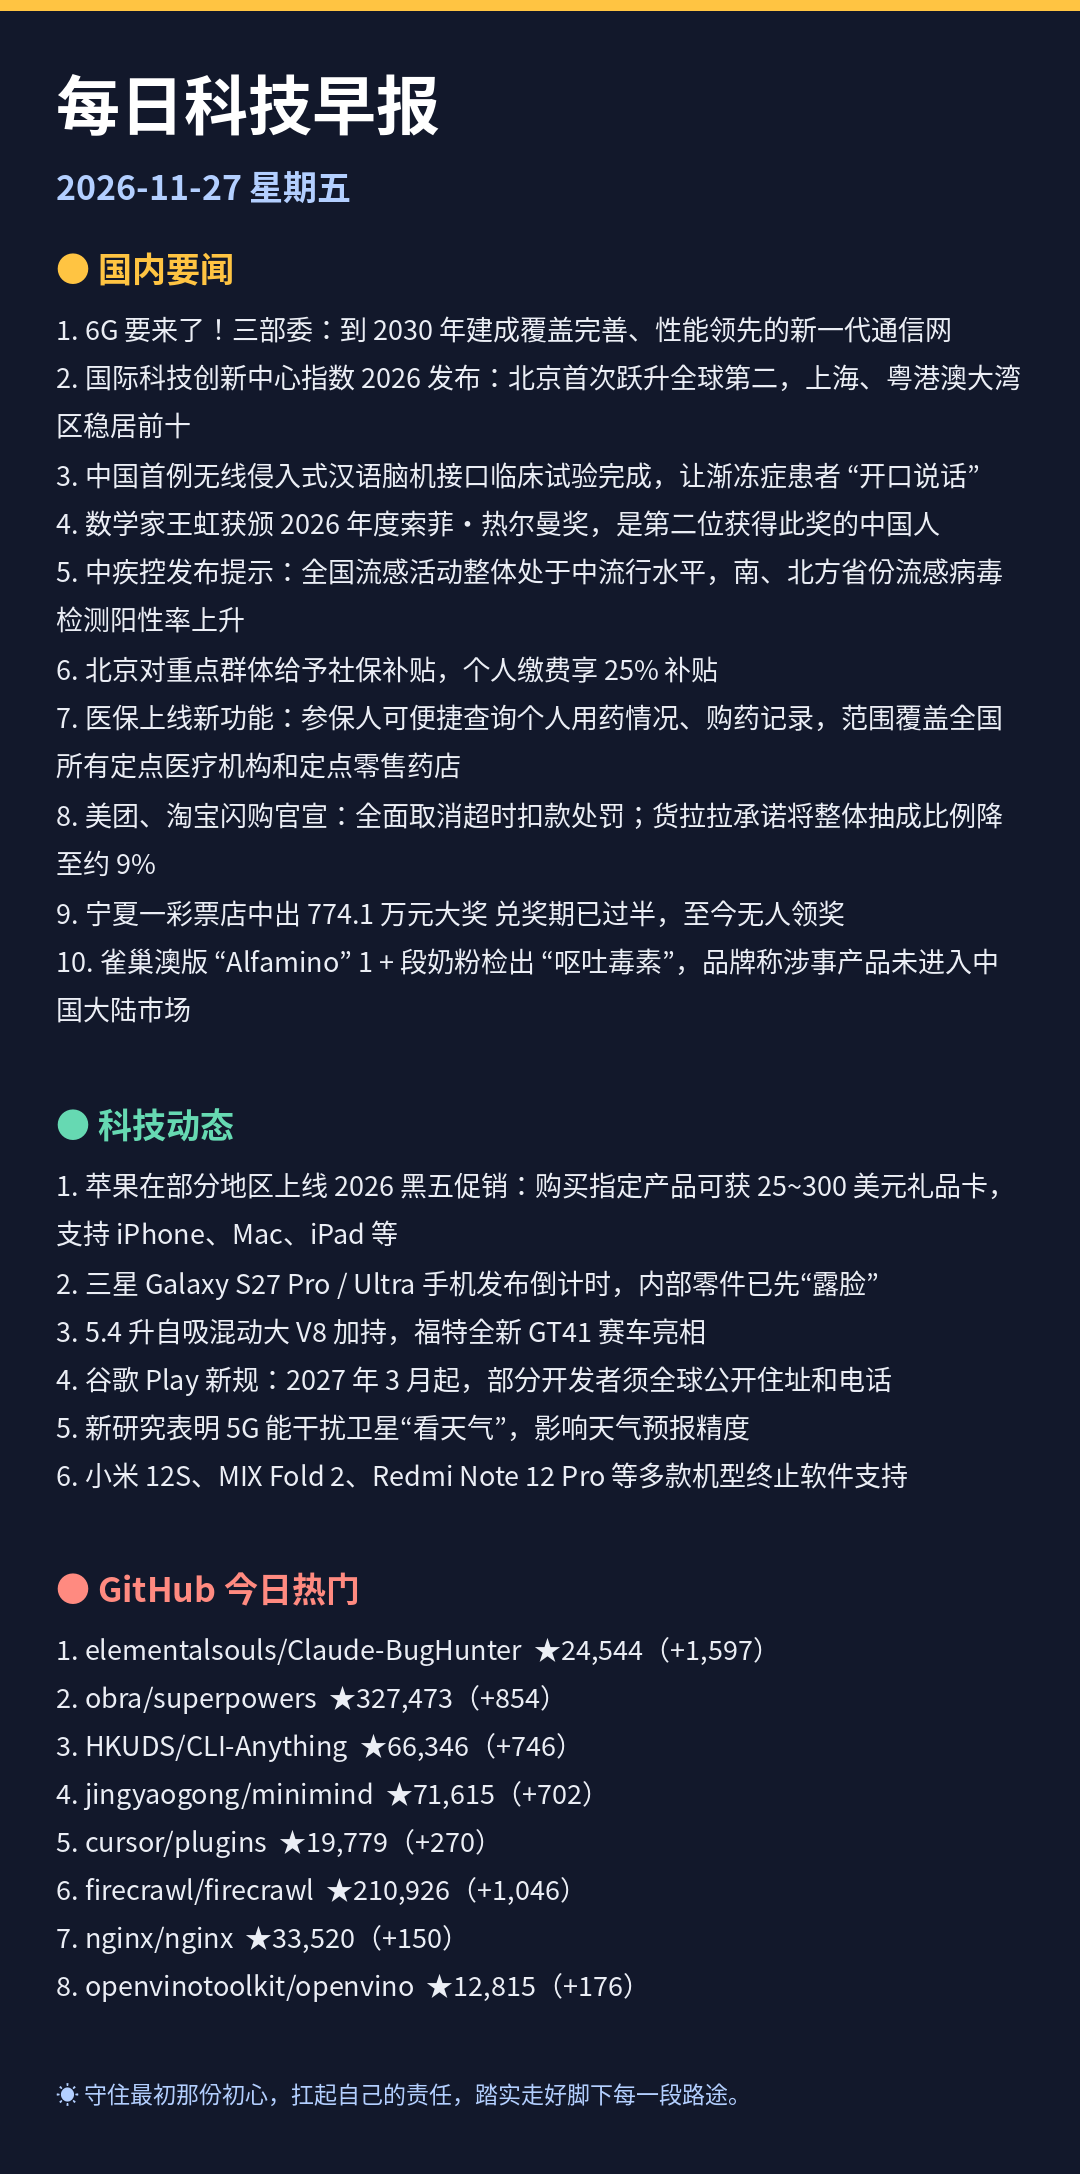
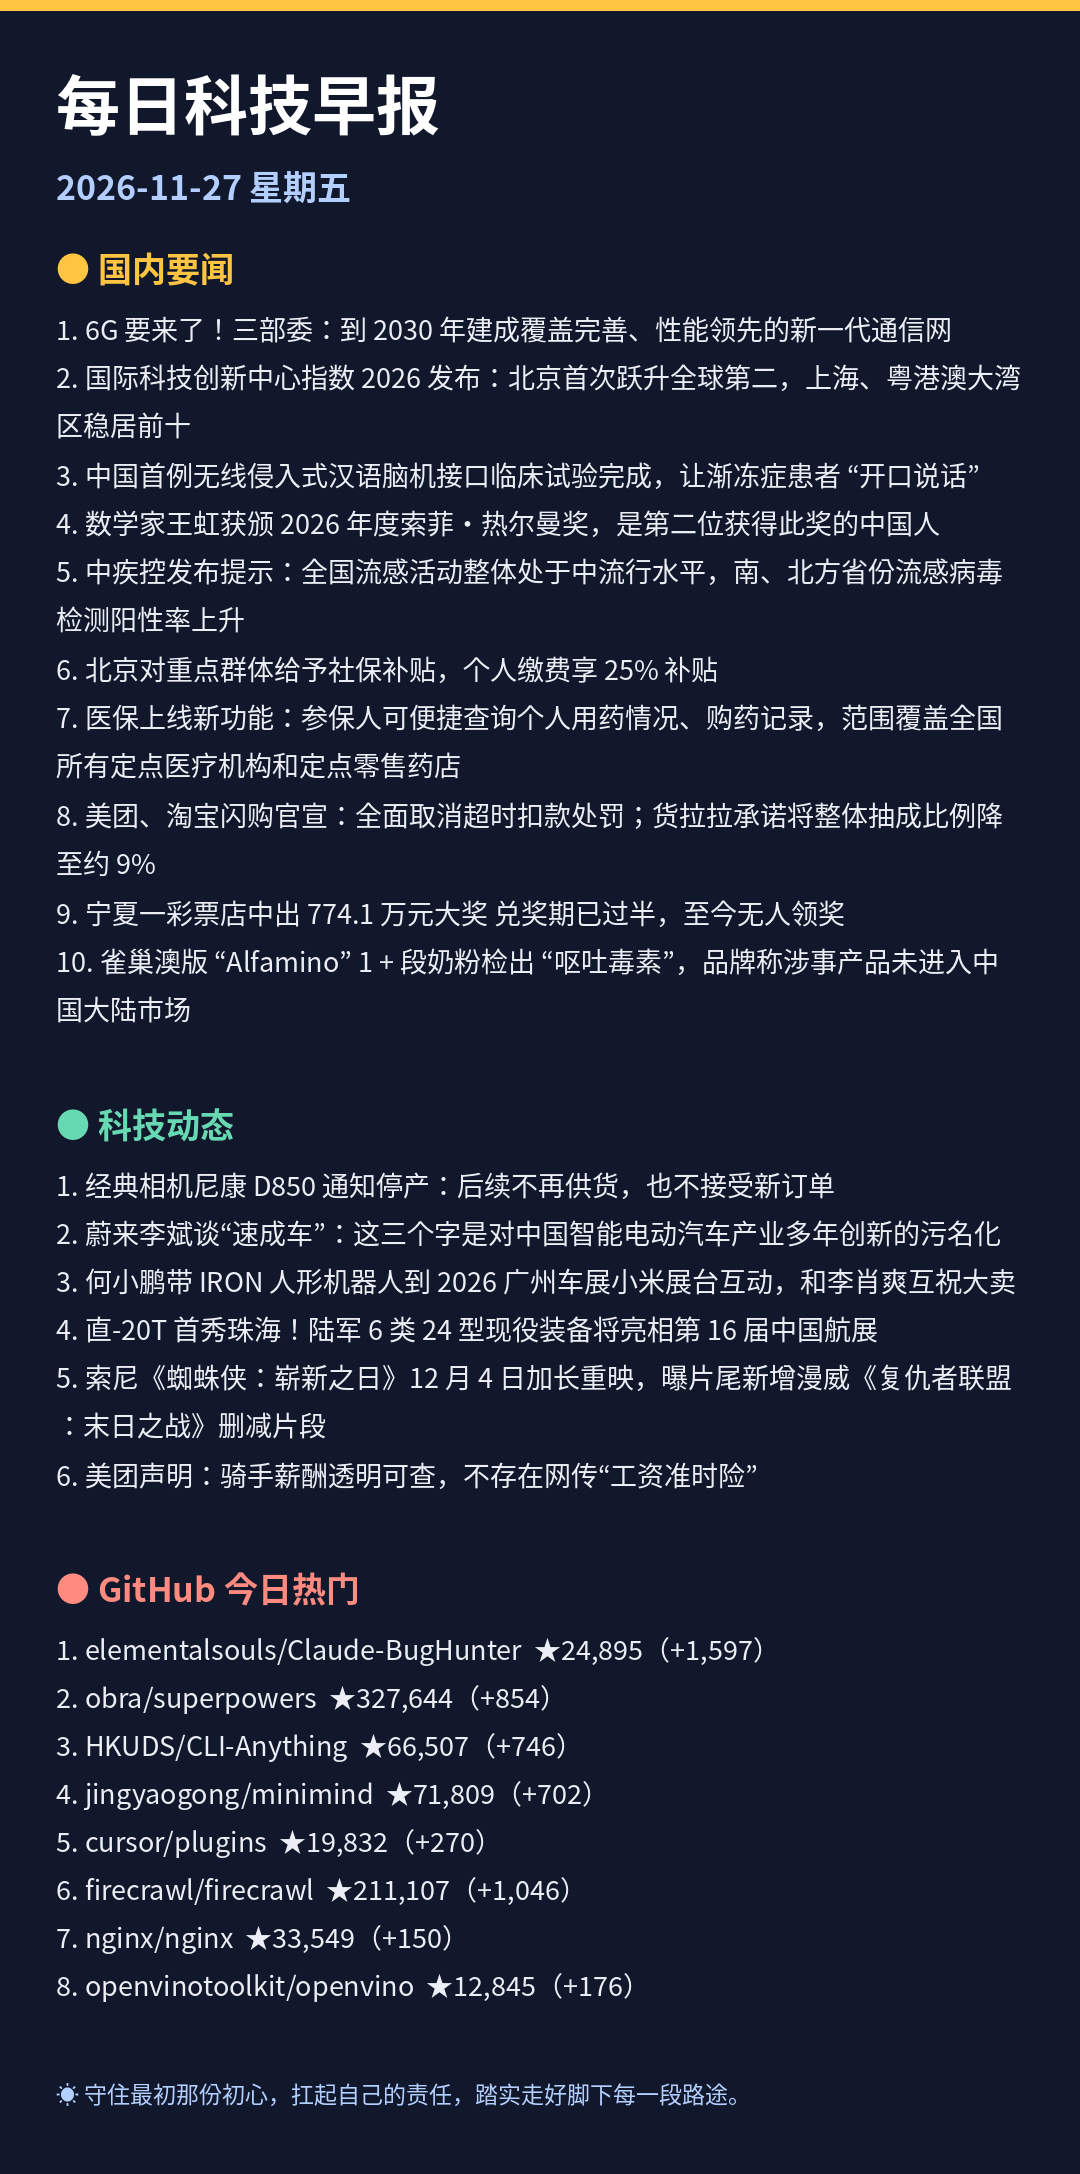
每日早报 2026-11-27

diff --git a/README.md b/README.md
@@ -30,34 +30,34 @@
 
 ## 💻 科技动态
 
-1. [苹果在部分地区上线 2026 黑五促销：购买指定产品可获 25~300 美元礼品卡，支持 iPhone、Mac、iPad 等](https://www.ithome.com/1/033/151.htm)
-2. [三星 Galaxy S27 Pro / Ultra 手机发布倒计时，内部零件已先“露脸”](https://www.ithome.com/1/033/150.htm)
-3. [5.4 升自吸混动大 V8 加持，福特全新 GT41 赛车亮相](https://www.ithome.com/1/033/149.htm)
-4. [谷歌 Play 新规：2027 年 3 月起，部分开发者须全球公开住址和电话](https://www.ithome.com/1/033/148.htm)
-5. [新研究表明 5G 能干扰卫星“看天气”，影响天气预报精度](https://www.ithome.com/1/033/147.htm)
-6. [小米 12S、MIX Fold 2、Redmi Note 12 Pro 等多款机型终止软件支持](https://www.ithome.com/1/033/146.htm)
-7. [IT早报 1127：全球首个乙肝功能性治愈新药在中国获批上市；华为星驰辅助驾驶发布；马斯克向全美孩子每人赠送 2 股 SpaceX 股票；微信上线 NFC 交通卡...](https://www.ithome.com/1/033/145.htm)
-8. [育碧：我们并没有在全公司范围强制推行 AI](https://www.ithome.com/1/033/144.htm)
+1. [经典相机尼康 D850 通知停产：后续不再供货，也不接受新订单](https://www.ithome.com/1/033/336.htm)
+2. [蔚来李斌谈“速成车”：这三个字是对中国智能电动汽车产业多年创新的污名化](https://www.ithome.com/1/033/335.htm)
+3. [何小鹏带 IRON 人形机器人到 2026 广州车展小米展台互动，和李肖爽互祝大卖](https://www.ithome.com/1/033/334.htm)
+4. [直-20T 首秀珠海！陆军 6 类 24 型现役装备将亮相第 16 届中国航展](https://www.ithome.com/1/033/333.htm)
+5. [索尼《蜘蛛侠：崭新之日》12 月 4 日加长重映，曝片尾新增漫威《复仇者联盟：末日之战》删减片段](https://www.ithome.com/1/033/332.htm)
+6. [美团声明：骑手薪酬透明可查，不存在网传“工资准时险”](https://www.ithome.com/1/033/330.htm)
+7. [曝海康威视取消大小周实现双休、但早晚餐补没了，员工称每月少 3000 元](https://www.ithome.com/1/033/329.htm)
+8. [月之暗面：Kimi 科研支持计划现已开放申请](https://www.ithome.com/1/033/328.htm)
 
 <sub>来源：IT之家</sub>
 
 ## 🔥 GitHub 今日热门
 
-1. **[elementalsouls/Claude-BugHunter](https://github.com/elementalsouls/Claude-BugHunter)** — ⭐ 24,544（今日 +1,597） · Python
+1. **[elementalsouls/Claude-BugHunter](https://github.com/elementalsouls/Claude-BugHunter)** — ⭐ 24,895（今日 +1,597） · Python
    A Claude Code skill bundle for bug hunting and external red-team work - 85 skills, 16 slash commands, 681 disclosed-repo…
-2. **[obra/superpowers](https://github.com/obra/superpowers)** — ⭐ 327,473（今日 +854） · Shell
+2. **[obra/superpowers](https://github.com/obra/superpowers)** — ⭐ 327,644（今日 +854） · Shell
    An agentic skills framework software development methodology that works.
-3. **[HKUDS/CLI-Anything](https://github.com/HKUDS/CLI-Anything)** — ⭐ 66,346（今日 +746） · Python
+3. **[HKUDS/CLI-Anything](https://github.com/HKUDS/CLI-Anything)** — ⭐ 66,507（今日 +746） · Python
    "CLI-Anything: Making ALL Software Agent-Native" -- CLI-Hub: https://clianything.cc/
-4. **[jingyaogong/minimind](https://github.com/jingyaogong/minimind)** — ⭐ 71,615（今日 +702） · Python
+4. **[jingyaogong/minimind](https://github.com/jingyaogong/minimind)** — ⭐ 71,809（今日 +702） · Python
    🧠 两小时从 0 训出你的 64M 大模型。Train your own 64M LLM from scratch in 2 hours.
-5. **[cursor/plugins](https://github.com/cursor/plugins)** — ⭐ 19,779（今日 +270） · TypeScript
+5. **[cursor/plugins](https://github.com/cursor/plugins)** — ⭐ 19,832（今日 +270） · TypeScript
    Cursor plugin specification and official plugins
-6. **[firecrawl/firecrawl](https://github.com/firecrawl/firecrawl)** — ⭐ 210,926（今日 +1,046） · TypeScript
+6. **[firecrawl/firecrawl](https://github.com/firecrawl/firecrawl)** — ⭐ 211,107（今日 +1,046） · TypeScript
    Knowledge infrastructure to make your agents smarter. Search, scrape and access 550+ data providers through one API.
-7. **[nginx/nginx](https://github.com/nginx/nginx)** — ⭐ 33,520（今日 +150） · C
+7. **[nginx/nginx](https://github.com/nginx/nginx)** — ⭐ 33,549（今日 +150） · C
    The official NGINX Open Source repository.
-8. **[openvinotoolkit/openvino](https://github.com/openvinotoolkit/openvino)** — ⭐ 12,815（今日 +176） · C++
+8. **[openvinotoolkit/openvino](https://github.com/openvinotoolkit/openvino)** — ⭐ 12,845（今日 +176） · C++
    OpenVINO™ is an open source toolkit for optimizing and deploying AI inference
 
 <sub>来源：GitHub Trending</sub>

diff --git a/editions/2026-11-27.md b/editions/2026-11-27.md
@@ -22,34 +22,34 @@
 
 ## 💻 科技动态
 
-1. [苹果在部分地区上线 2026 黑五促销：购买指定产品可获 25~300 美元礼品卡，支持 iPhone、Mac、iPad 等](https://www.ithome.com/1/033/151.htm)
-2. [三星 Galaxy S27 Pro / Ultra 手机发布倒计时，内部零件已先“露脸”](https://www.ithome.com/1/033/150.htm)
-3. [5.4 升自吸混动大 V8 加持，福特全新 GT41 赛车亮相](https://www.ithome.com/1/033/149.htm)
-4. [谷歌 Play 新规：2027 年 3 月起，部分开发者须全球公开住址和电话](https://www.ithome.com/1/033/148.htm)
-5. [新研究表明 5G 能干扰卫星“看天气”，影响天气预报精度](https://www.ithome.com/1/033/147.htm)
-6. [小米 12S、MIX Fold 2、Redmi Note 12 Pro 等多款机型终止软件支持](https://www.ithome.com/1/033/146.htm)
-7. [IT早报 1127：全球首个乙肝功能性治愈新药在中国获批上市；华为星驰辅助驾驶发布；马斯克向全美孩子每人赠送 2 股 SpaceX 股票；微信上线 NFC 交通卡...](https://www.ithome.com/1/033/145.htm)
-8. [育碧：我们并没有在全公司范围强制推行 AI](https://www.ithome.com/1/033/144.htm)
+1. [经典相机尼康 D850 通知停产：后续不再供货，也不接受新订单](https://www.ithome.com/1/033/336.htm)
+2. [蔚来李斌谈“速成车”：这三个字是对中国智能电动汽车产业多年创新的污名化](https://www.ithome.com/1/033/335.htm)
+3. [何小鹏带 IRON 人形机器人到 2026 广州车展小米展台互动，和李肖爽互祝大卖](https://www.ithome.com/1/033/334.htm)
+4. [直-20T 首秀珠海！陆军 6 类 24 型现役装备将亮相第 16 届中国航展](https://www.ithome.com/1/033/333.htm)
+5. [索尼《蜘蛛侠：崭新之日》12 月 4 日加长重映，曝片尾新增漫威《复仇者联盟：末日之战》删减片段](https://www.ithome.com/1/033/332.htm)
+6. [美团声明：骑手薪酬透明可查，不存在网传“工资准时险”](https://www.ithome.com/1/033/330.htm)
+7. [曝海康威视取消大小周实现双休、但早晚餐补没了，员工称每月少 3000 元](https://www.ithome.com/1/033/329.htm)
+8. [月之暗面：Kimi 科研支持计划现已开放申请](https://www.ithome.com/1/033/328.htm)
 
 <sub>来源：IT之家</sub>
 
 ## 🔥 GitHub 今日热门
 
-1. **[elementalsouls/Claude-BugHunter](https://github.com/elementalsouls/Claude-BugHunter)** — ⭐ 24,544（今日 +1,597） · Python
+1. **[elementalsouls/Claude-BugHunter](https://github.com/elementalsouls/Claude-BugHunter)** — ⭐ 24,895（今日 +1,597） · Python
    A Claude Code skill bundle for bug hunting and external red-team work - 85 skills, 16 slash commands, 681 disclosed-repo…
-2. **[obra/superpowers](https://github.com/obra/superpowers)** — ⭐ 327,473（今日 +854） · Shell
+2. **[obra/superpowers](https://github.com/obra/superpowers)** — ⭐ 327,644（今日 +854） · Shell
    An agentic skills framework software development methodology that works.
-3. **[HKUDS/CLI-Anything](https://github.com/HKUDS/CLI-Anything)** — ⭐ 66,346（今日 +746） · Python
+3. **[HKUDS/CLI-Anything](https://github.com/HKUDS/CLI-Anything)** — ⭐ 66,507（今日 +746） · Python
    "CLI-Anything: Making ALL Software Agent-Native" -- CLI-Hub: https://clianything.cc/
-4. **[jingyaogong/minimind](https://github.com/jingyaogong/minimind)** — ⭐ 71,615（今日 +702） · Python
+4. **[jingyaogong/minimind](https://github.com/jingyaogong/minimind)** — ⭐ 71,809（今日 +702） · Python
    🧠 两小时从 0 训出你的 64M 大模型。Train your own 64M LLM from scratch in 2 hours.
-5. **[cursor/plugins](https://github.com/cursor/plugins)** — ⭐ 19,779（今日 +270） · TypeScript
+5. **[cursor/plugins](https://github.com/cursor/plugins)** — ⭐ 19,832（今日 +270） · TypeScript
    Cursor plugin specification and official plugins
-6. **[firecrawl/firecrawl](https://github.com/firecrawl/firecrawl)** — ⭐ 210,926（今日 +1,046） · TypeScript
+6. **[firecrawl/firecrawl](https://github.com/firecrawl/firecrawl)** — ⭐ 211,107（今日 +1,046） · TypeScript
    Knowledge infrastructure to make your agents smarter. Search, scrape and access 550+ data providers through one API.
-7. **[nginx/nginx](https://github.com/nginx/nginx)** — ⭐ 33,520（今日 +150） · C
+7. **[nginx/nginx](https://github.com/nginx/nginx)** — ⭐ 33,549（今日 +150） · C
    The official NGINX Open Source repository.
-8. **[openvinotoolkit/openvino](https://github.com/openvinotoolkit/openvino)** — ⭐ 12,815（今日 +176） · C++
+8. **[openvinotoolkit/openvino](https://github.com/openvinotoolkit/openvino)** — ⭐ 12,845（今日 +176） · C++
    OpenVINO™ is an open source toolkit for optimizing and deploying AI inference
 
 <sub>来源：GitHub Trending</sub>
